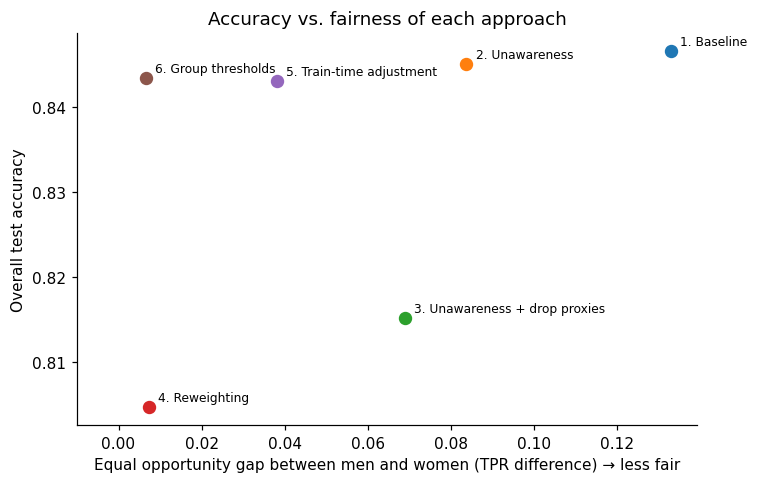
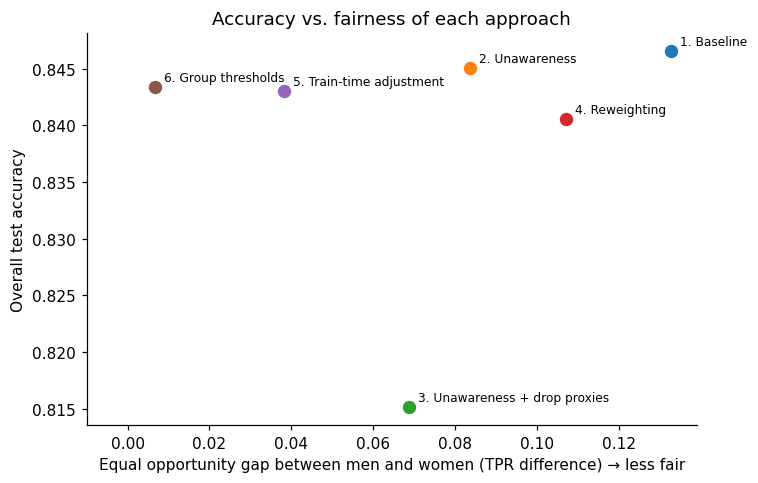
Use standard reweighing weights and add paired bootstrap tests
Reweighting now uses Kamiran & Calders weights, P(sex)P(label)/P(sex,label),
instead of equal weights per (sex, label) cell. The old weights shifted the
label balance to 50:50, so its near-zero EO gap came from predicting >50K
far more often. The new weights halve the DP gap at 0.6 pts of accuracy but
over-correct TPR.

Notebook 3 also adds a paired bootstrap of each method against the
baseline, confirming that the accuracy costs and EO gap reductions of
methods 5 and 6 are real.

diff --git a/README.md b/README.md
@@ -9,7 +9,7 @@ Models like this are used in lending, hiring and marketing. A model can look acc
 - **Baseline model:** 84.7% test accuracy (vs 76.4% for always predicting "<=50K"), ROC AUC 0.90. The from-scratch implementation matches scikit-learn on 99% of predictions.
 - **Hidden gap:** the model is *more* accurate for women (93% vs 81%), yet it recognizes only **47% of high-earning women vs 60% of high-earning men**, a 13-point equal-opportunity gap.
 - **"Just drop the sex column" doesn't work:** the other features predict sex with an AUC of 0.93, so the gap only shrinks to 8 points.
-- **Targeted fixes work:** adjusting for sex during training cuts the gap to **4 points**, and group-specific thresholds close it (**0.7 points**), each for only **0.4 points of accuracy**.
+- **Targeted fixes work:** adjusting for sex during training cuts the gap to **4 points**, and group-specific thresholds close it (**0.7 points**), each for only **0.4 points of accuracy**. A paired bootstrap on the test set confirms that both the improvement and the cost are real, with the cost below 0.7 points.
 
 <img src="figures/tradeoff.png" width="560" alt="Accuracy versus equal-opportunity gap for six approaches">
 
@@ -18,7 +18,7 @@ Models like this are used in lending, hiring and marketing. A model can look acc
 | Baseline | 0.847 | 0.47 | 0.60 | 0.133 |
 | Drop `sex` & `race` | 0.845 | 0.51 | 0.59 | 0.084 |
 | + drop proxy features | 0.815 | 0.36 | 0.43 | 0.069 |
-| Reweighting | 0.805 | 0.81 | 0.80 | 0.007 |
+| Reweighting | 0.841 | 0.64 | 0.53 | 0.107 |
 | **Train-time adjustment** (sex not used at prediction) | **0.843** | 0.57 | 0.54 | **0.038** |
 | **Group thresholds** (sex used at decision time) | **0.843** | 0.59 | 0.58 | **0.007** |
 
@@ -30,7 +30,7 @@ TPR = share of people truly earning >50K that the model recognizes. Gap = TPR di
 |---|---|
 | [01 Data cleaning & EDA](notebooks/01_data_cleaning_eda.ipynb) | Clean the raw census files, treat non-random missingness, explore income gaps by group, detect proxy features |
 | [02 Logistic regression from scratch](notebooks/02_logistic_regression_from_scratch.ipynb) | Mini-batch gradient descent with L2 and sample weights; verified against scikit-learn; tuned with stratified CV |
-| [03 Fairness evaluation & mitigation](notebooks/03_fairness_evaluation.ipynb) | Per-group audit with bootstrap confidence intervals, proxy analysis, six mitigation strategies compared |
+| [03 Fairness evaluation & mitigation](notebooks/03_fairness_evaluation.ipynb) | Per-group audit with bootstrap confidence intervals, proxy analysis, six mitigation strategies compared, paired bootstrap tests of each method against the baseline |
 
 Reusable code lives in [`src/`](src/): the [logistic regression class](src/logistic_regression.py), the [feature pipeline](src/features.py) and the [group-fairness metrics](src/metrics.py).
 
@@ -39,7 +39,7 @@ Reusable code lives in [`src/`](src/): the [logistic regression class](src/logis
 1. **Overall accuracy hides unfairness.** Per-group true positive rates showed a gap that accuracy pointed in the opposite direction.
 2. **Fairness through unawareness fails** when proxies exist (`relationship` = Husband/Wife almost reveals sex).
 3. **Removing predictive features hurts everyone.** Dropping the proxies lowered TPR for both sexes ("levelling down").
-4. **The fairness metric is a business and legal choice.** Reweighting equalizes TPR but widens the selection-rate gap, and with base rates of 30% vs 11% both cannot be equal at once.
+4. **The fairness metric is a business and legal choice.** Reweighting halves the selection-rate gap (0.19 → 0.09) but over-corrects TPR, group thresholds equalize TPR but leave a selection-rate gap, and with base rates of 30% vs 11% both cannot be equal at once.
 5. **Recommendation:** use group thresholds where the law allows sex at decision time; otherwise use train-time adjustment. Monitor per-group metrics either way.
 
 ## Data
